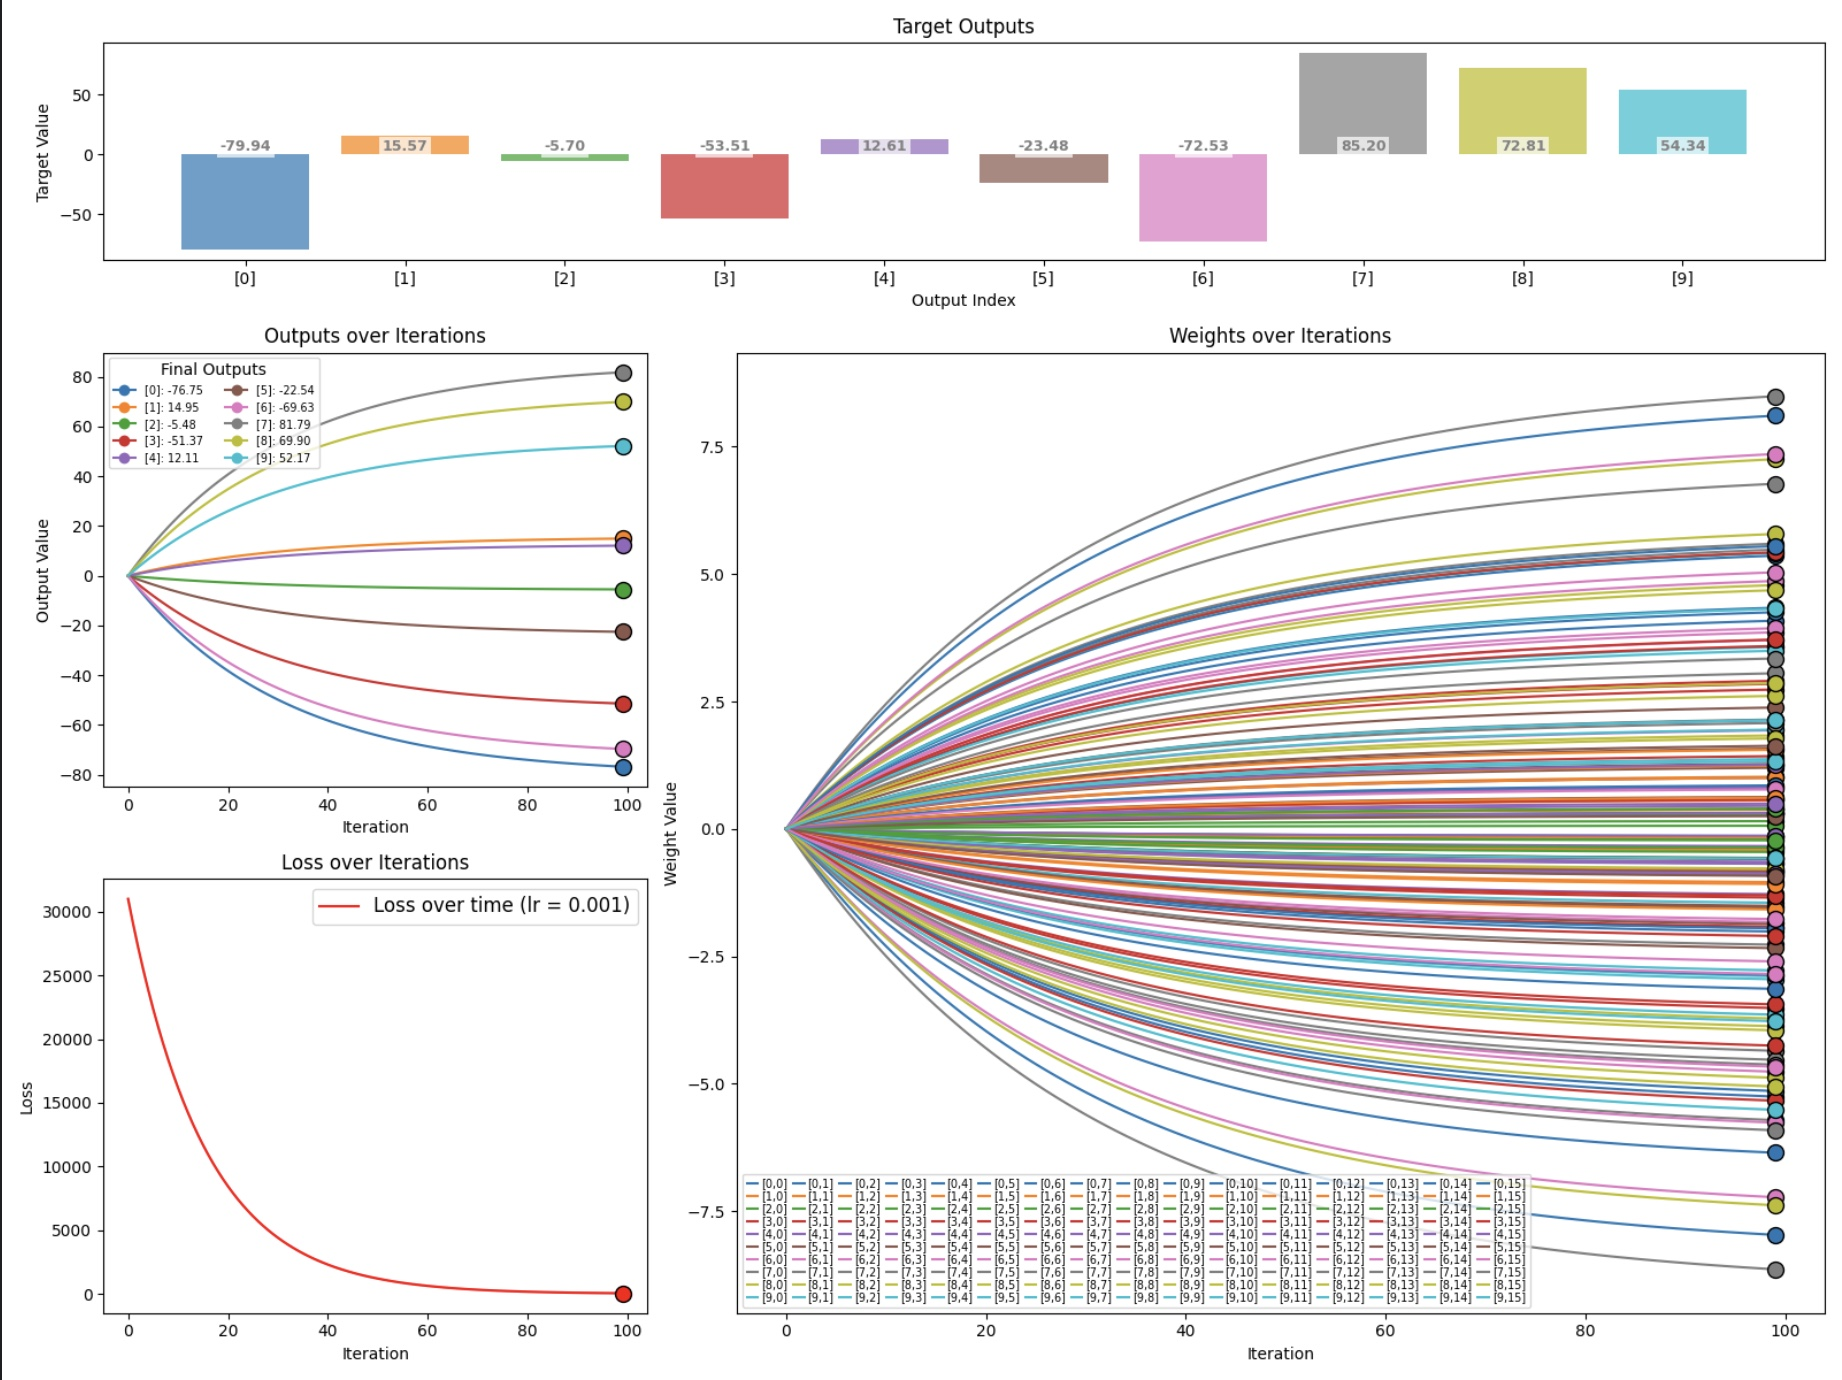
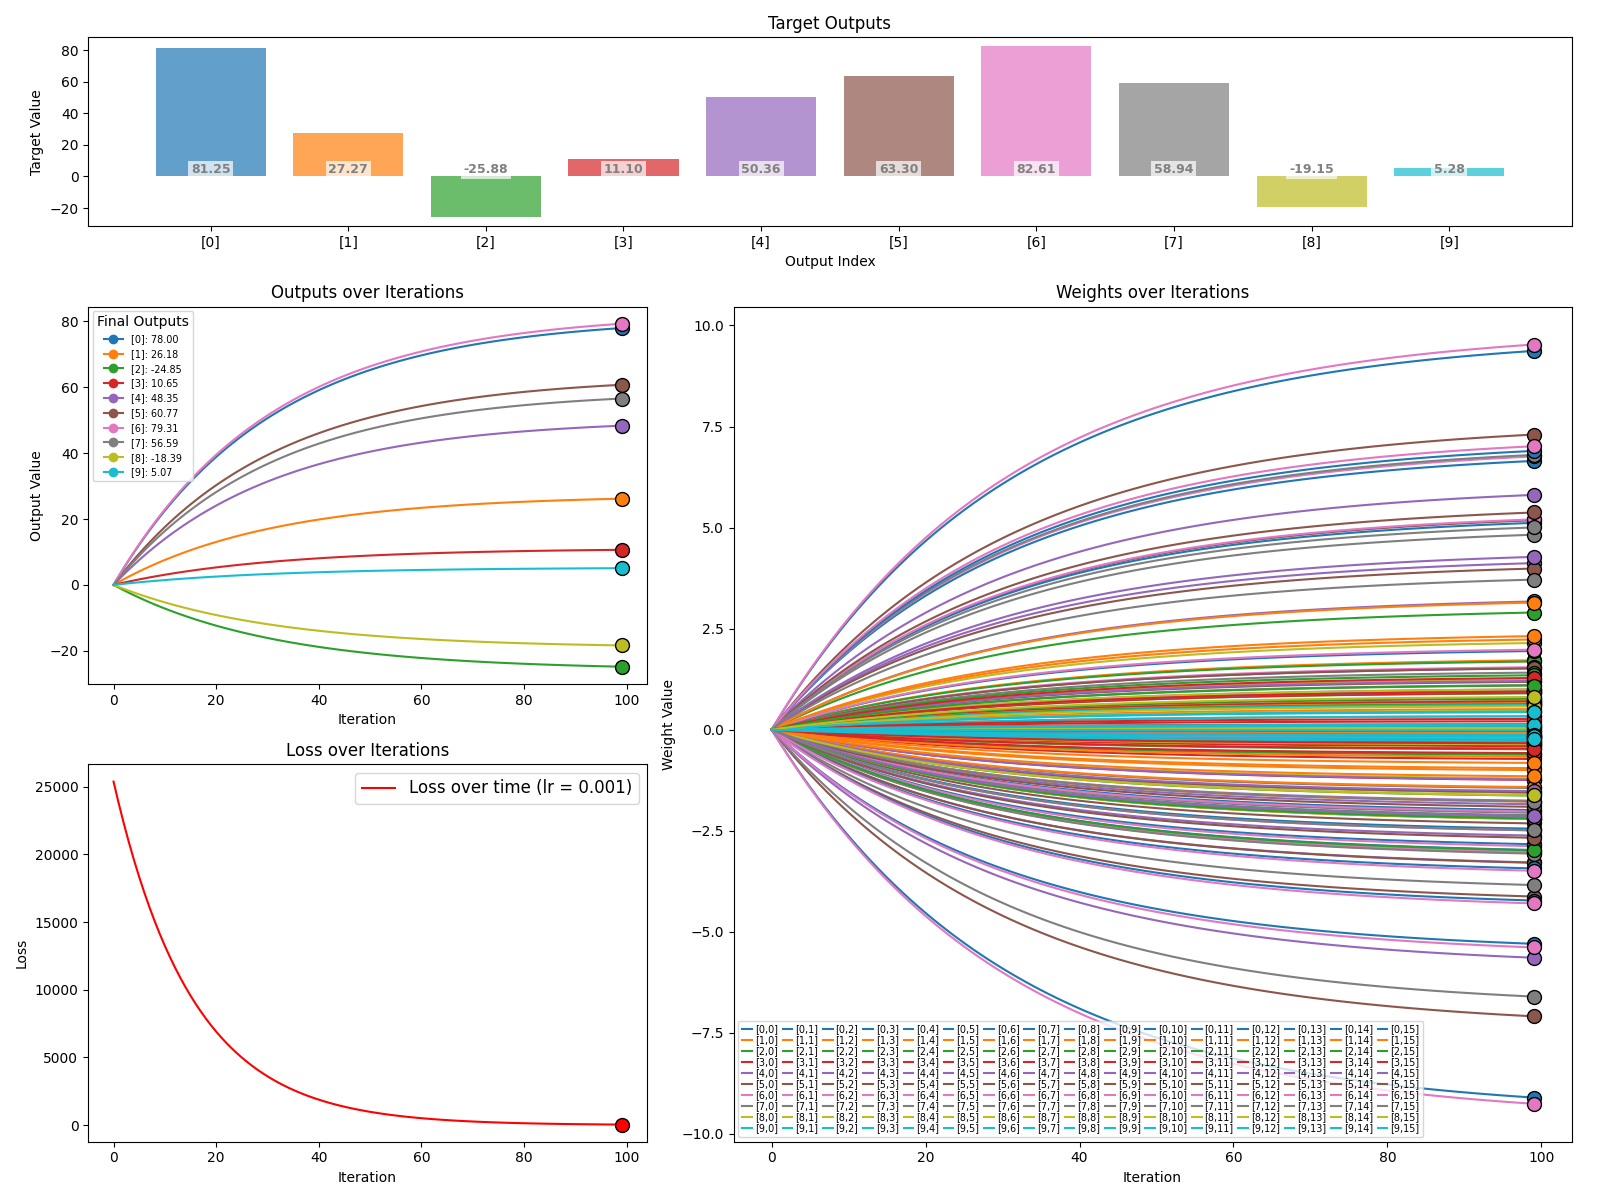
fix rdMe

diff --git a/SimpleGradient.py b/SimpleGradient.py
@@ -78,7 +78,7 @@ class SimpleGradient:
 
     def _plot_gd(self, lr):
         fig = plt.figure(figsize=(16, 12))  # Slightly taller to accommodate the bar chart
-        gs = GridSpec(3, 2, width_ratios=[1, 2], height_ratios=[0.5, 1, 1], figure=fig)
+        gs = GridSpec(3, 2, width_ratios=[2, 3], height_ratios=[0.5, 1, 1], figure=fig)
 
         # Use a color palette that matches the outputs over time graph
         colors = plt.cm.tab10(np.linspace(0, 1, self.Y.size))
@@ -94,21 +94,6 @@ class SimpleGradient:
             alpha=0.7
         )
 
-        # Add value labels on top of each bar
-        # for idx, bar in enumerate(bars):
-        #     height = bar.get_height()
-        #     ax_target.text(
-        #         bar.get_x() + bar.get_width() / 2.,
-        #         height,
-        #         f'{height:.2f}',
-        #         ha='center',
-        #         va='bottom',
-        #         fontsize=9,
-        #         fontweight='bold',
-        #         color='gray',
-        #         rotation=0,  # Optional: slight rotation can improve readability
-        #         bbox=dict(facecolor='white', edgecolor='none', alpha=0.7, pad=2)
-        #     )
         for idx, bar in enumerate(bars):
             height = bar.get_height()
             ax_target.text(
@@ -159,7 +144,6 @@ class SimpleGradient:
             handles=legend_elements,
             loc="upper left",
             fontsize="x-small",
-            ncol=2,
             title="Final Outputs"
         )
 
@@ -214,7 +198,7 @@ class SimpleGradient:
 
         plt.tight_layout()
         # plt.show()
-        plt.savefig("nn_visualization.png")
+        plt.savefig("exampleVisualization.png")
 
 if __name__ == "__main__":
     sg = SimpleGradient()
